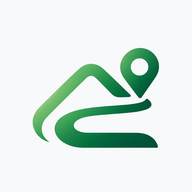
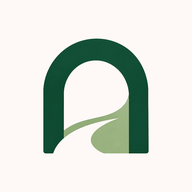
App 圖示改成拱門設計
- 主畫面與分頁圖示改用新的拱門＋小路設計；快取版本 v13

Changed region(s): [[0.1562, 0.1875, 0.8438, 0.8125]]

diff --git a/sw.js b/sw.js
@@ -1,7 +1,7 @@
 // 離線用的 Service Worker：把 App 本身存在手機上，沒網路也能打開。
 // 行程資料的離線由 Firestore 自己的快取處理，這裡不碰。
 // 每次更新程式碼後，把 VERSION 加 1，家人的手機才會換成新版。
-const VERSION = "v12";
+const VERSION = "v13";
 const CACHE = "ftp-" + VERSION;
 const SHELL = [
   "./",
